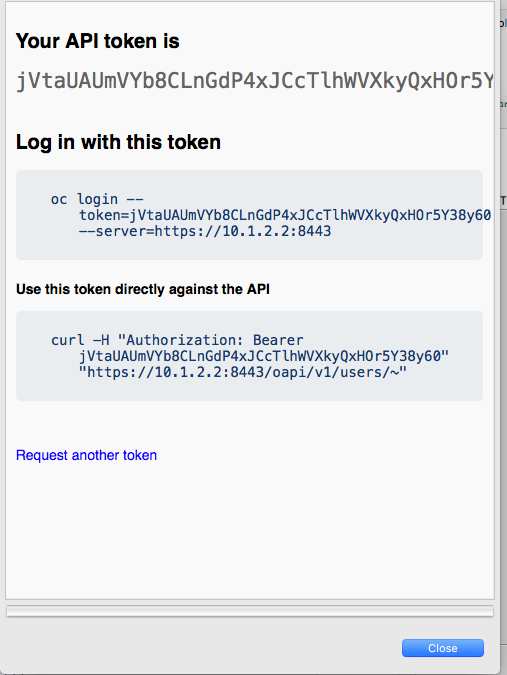
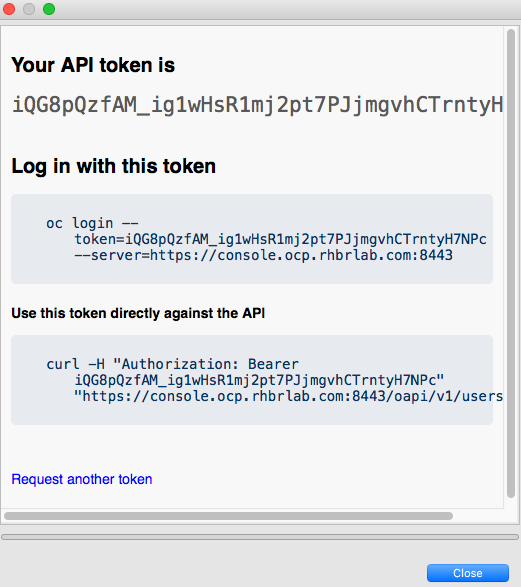
refactoring lab03 instructions

Changed region(s): [[0.0, 0.0, 1.0, 1.0], [0.0, 0.9813, 0.0296, 1.0]]

diff --git a/lab03/README.md b/lab03/README.md
@@ -1,69 +1,6 @@
 ## Lab 03 - Deploy no Openshift
 
-1. Inicialize o seu cluster Openshift através do comando:
-
-    ```
-    oc-cluster up integration
-    ```
-
-    Você deverá ver mensagens como essa:
-
-    ```
-    # Using client for ocp v3.5.5.31
-    [INFO] Created self signed certs. You can avoid self signed certificates warnings by trusting this certificate: /home/ec2-user/.oc/certs/master.server.crt
-    [INFO] Running a previously created cluster
-    oc cluster up --version v3.5.5.31 --image registry.access.redhat.com/openshift3/ose --public-hostname 127.0.0.1 --routing-suffix apps.127.0.0.1.nip.io --host-data-dir /home/ec2-user/.oc/profiles/test/data --host-config-dir /home/ec2-user/.oc/profiles/test/config --host-pv-dir /home/ec2-user/.oc/profiles/test/pv --use-existing-config -e TZ=EDT
-    -- Checking OpenShift client ... OK
-    -- Checking Docker client ... OK
-    -- Checking Docker version ... OK
-    -- Checking for existing OpenShift container ... OK
-    -- Checking for registry.access.redhat.com/openshift3/ose:v3.5.5.31 image ... OK
-    -- Checking Docker daemon configuration ... OK
-    -- Checking for available ports ...
-       WARNING: Binding DNS on port 8053 instead of 53, which may not be resolvable from all clients.
-    -- Checking type of volume mount ...
-       Using nsenter mounter for OpenShift volumes
-    -- Creating host directories ... OK
-    -- Finding server IP ...
-       Using 172.31.28.24 as the server IP
-    -- Starting OpenShift container ...
-       Starting OpenShift using container 'origin'
-       Waiting for API server to start listening
-       OpenShift server started
-    -- Removing temporary directory ... OK
-    -- Checking container networking ... OK
-    -- Server Information ...
-       OpenShift server started.
-       The server is accessible via web console at:
-           https://127.0.0.1:8443
-
-       You are logged in as:
-           User:     developer
-           Password: developer
-
-       To login as administrator:
-           oc login -u system:admin
-
-    ...
-
-    [INFO] Cluster created sucessfully
-    Restarting openshift. Done
-    ```
-
-    **Note:** Caso você precise parar o cluster execute o comando `oc-cluster down integration`.
-
-
-1. Adicione os imagestreams e templates do `mysql-ephemeral` e `FIS`
-
-FIS images
-
-    oc create -f https://raw.githubusercontent.com/jboss-fuse/application-templates/master/fis-image-streams.json -n openshift --as=system:admin
-
-MYSQL Database
-
-    oc create -f https://raw.githubusercontent.com/openshift/origin/master/examples/db-templates/mysql-ephemeral-template.json -n openshift --as=system:admin
-
-You can try view the OpenShift console by going to https://127.0.0.1:8443/console in the browser. 
+1. Acesse o Openshift em https://console.ocp.rhbrlab.com:8443
 
 ![00-openshift.png](./img/00-openshift.png)
 
@@ -104,21 +41,15 @@ No **Openshift Explorer**, clique com o direito em **connection** e crie um novo
 
 **Note:** 'Caso não tenha criado a conexão anteriormente
 
-1. Clique em **New Connection Wizard...** Para configurar o Openshift. Em **Server** Insira a URL do console web Openshift (https://127.0.0.1:8443) e clique em  **retrieve** para obter o token de acesso.
-1. Nova nova janela faça login como desenvolvedor usando as credenciais developer/developer.
+1. Clique em **New Connection Wizard...** Para configurar o Openshift. Em **Server** Insira a URL do console web Openshift (https://console.ocp.rhbrlab.com:8443) e clique em  **retrieve** para obter o token de acesso.
+1. Nova nova janela faça login como desenvolvedor usando as credenciais entregue no inicio do workshop.
 
     ![05-token.png](./img/05-token.png)
 
 1. Clique em **Close**
 1. **DESMARQUE** o botão *Save token* e clique em **Finish**
 
-    ![06-connection.png](./img/06-connection.png)
-
-Então crie um projeto com o nome **myfuseproject** com o Display Name **My Fuse Project**
-
-![02-projectname.png](./img/02-projectname.png)
-
-Dentro do projeto primeiramente nós iremos criar um banco de dados MYSQL para nossa aplicação. Clique direito no projeto **myfuseproject** e então **New** -> **Application**
+Então utilizando o projeto que foi criado para você (workshop-user-#)iremos criar um banco de dados MYSQL para nossa aplicação. No JBoss Developer Studio clique direito no projeto **myfuseproject** e então **New** -> **Application**
 
 ![03-newapp.png](./img/03-newapp.png)
 
@@ -142,11 +73,19 @@ Agora nós podemos finalmente fazer o deploy da nossa aplicação no Openshift, 
 
 ![07-runmvn.png](./img/07-runmvn.png)
 
-No menu popup, selecione **Deploy myfuselab on Openshift** no painel da esquerda. Agora vá na aba **JRE** e em **VM arguments**, atualize a variávels kubernetes.master com o o endereço do seu openshift **https://127.0.0.1:8443** e kubernetes.namespace com **myfuseproject**  e finalmente usuário/senha com developer/developer e clique em **RUN**.
+No menu popup, selecione **Deploy myfuselab on Openshift** no painel da esquerda. Agora vá na aba **JRE** e em **VM arguments**, atualize a variávels kubernetes.master com o o endereço do seu openshift **https://console.ocp.rhbrlab.com:8443** e kubernetes.namespace com **workshop-user-X**  e finalmente usuário/senha com workshop-user-X/<seu-password> e clique em **RUN**.
 
 ![08-runconfig.png](./img/08-runconfig.png)
 
-Para ver tudo em execução, abra o seu navegador em *https://127.0.0.1:8443/console/* faça o login com as credenciais developer/developer, selecione o projeto **MY Fuse Project**. E você verá as duas aplicações em execução na aba Overview.
+Na aba **Main** troque o comando para 
+
+    fabric8:deploy
+
+Para ver tudo em execução, abra o seu navegador em *https://console.ocp.rhbrlab.com:8443/console/* faça o login com as credenciais developer/developer, selecione o projeto **MY Fuse Project**. E você verá as duas aplicações em execução na aba Overview.
+
+Alternativamente, você pode simplesmente executar o comando maven
+
+    mvn fabric8:deploy 
 
 ![09-overview.png](./img/09-overview.png)
 
@@ -160,20 +99,7 @@ Clique em **Create route**.
 
 Não altere nada e clique em **Create**.
 
-Acesse a API que criamos através do seguinte endereço
-
-```
-curl http://myfuseproject-camel-ose-springboot-xml.127.0.0.1.nip.io/myfuselab/customer/all
-curl  http://myfuseproject-camel-ose-springboot-xml.127.0.0.1.nip.io/myfuselab/customer/A01
-```
-
-Verifique se está retornando o customer no formato JSON, como mostrado abaixo
-
-```
-[{"CUSTOMERID":"A01","VIPSTATUS":"Diamond","BALANCE":1000},{"CUSTOMERID":"A02","VIPSTATUS":"Gold","BALANCE":500}]
-
-[{"CUSTOMERID":"A01","VIPSTATUS":"Diamond","BALANCE":1000}]
-```
+Acesse a API que criamos através clicando na rota informada no Openshift.
 
 Para verificar a sua rota Camel em ação, no seu console Openshift, vá em **Application** -> **pod** e selecione o pod **camel-ose-springboot-xml-1-xxxxx**
 
@@ -190,7 +116,7 @@ Clique em **Route Diagram** e execute as APIs algumas vezes para ver o que acont
 Para aqueles que querem ver o que está acontecendo no banco de dados, logue na base de dados MYSQL através da linha de comando e execute
 
 ```
-oc project myfuseproject
+oc project workshop-user-X
 
 oc get pods
 NAME                                   READY     STATUS    RESTARTS   AGE
